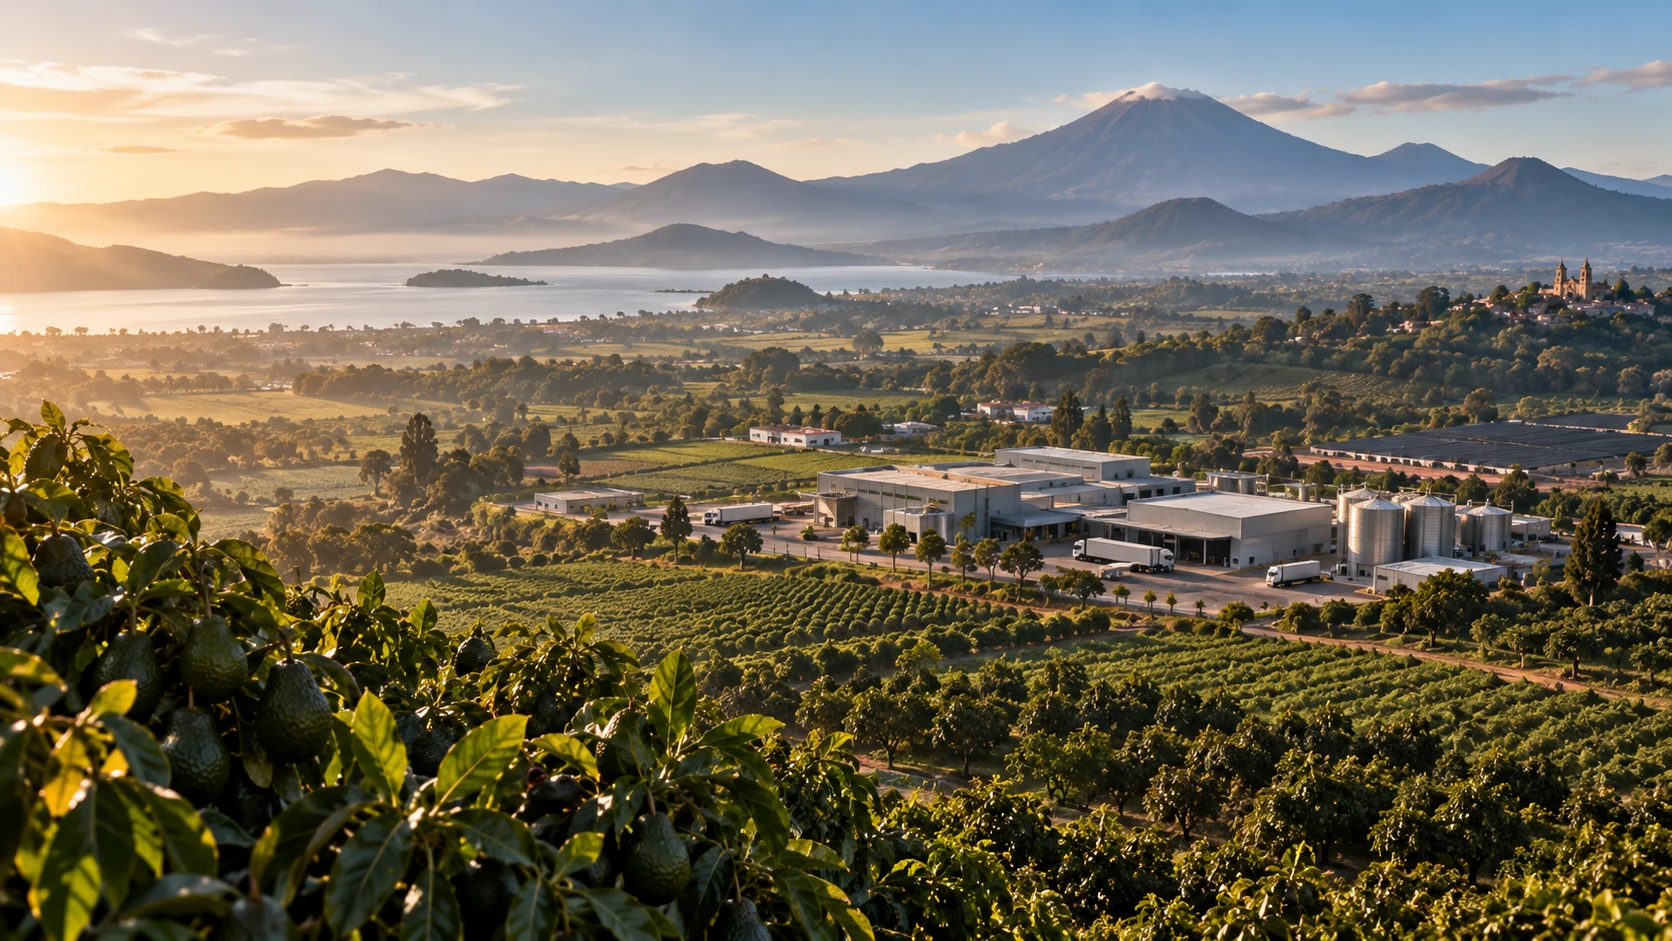
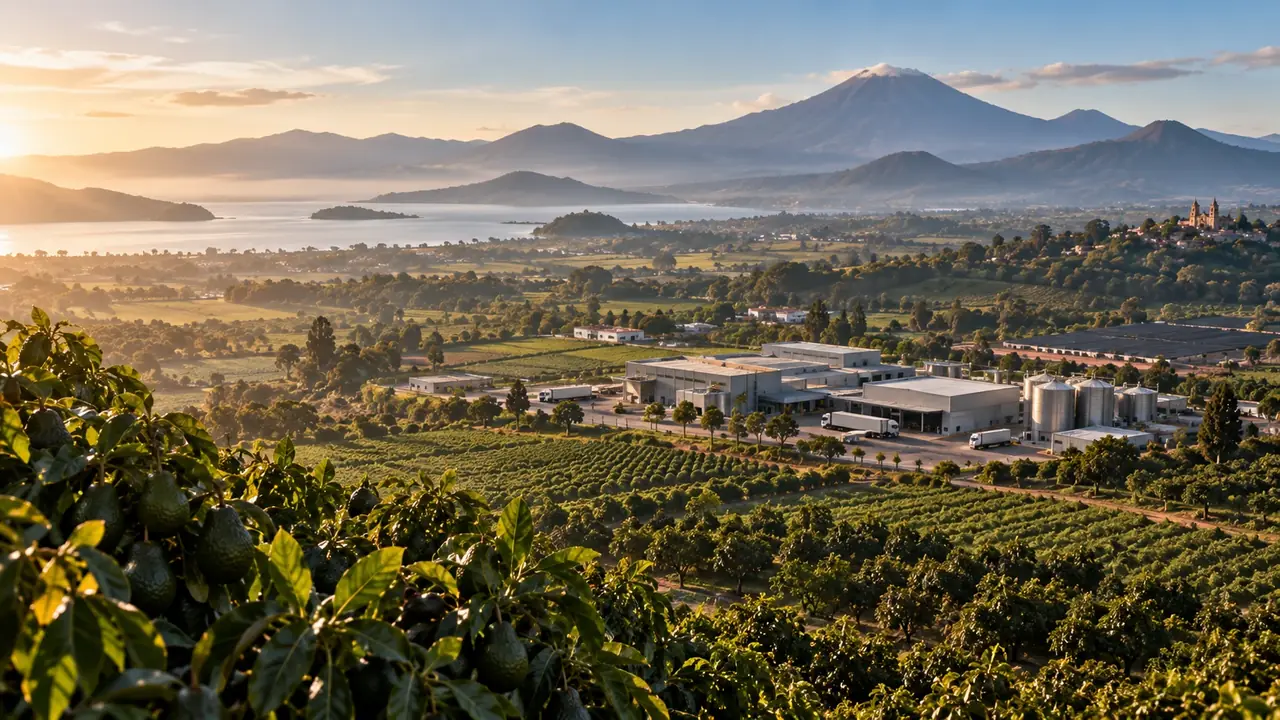
perf(app): optimiza imagenes 1672->1280 q72 (3.16MB->1.15MB) + fix preload para bug navegacion
- 12 webp 1672x941 q90 -> 1280x720 q72 LANCZOS (63% ahorro), texture 87KB->40KB, logo PNG 395KB->96KB (900px)
- SceneBackdrop.tsx: SceneImage eager siempre + decoding async (lazy causaba decode bloqueante en transicion 700ms)
- App.tsx: precarga todas scenes[].image via new Image() al montar, evita renderer frozen 7s/45s reportado
- tsc/build/preview OK, dist/images copiado, project_state/AGENTS/cmem actualizados

diff --git a/app/src/SceneBackdrop.tsx b/app/src/SceneBackdrop.tsx
@@ -132,16 +132,23 @@ function Particles({ reduceMotion, organize = false }: { reduceMotion: boolean; 
  * Solo en escenas sin 3D real (ver nota en scenes.tsx) — object-cover a
  * pantalla completa, primer plano oscurecido con `PhotoScrim` para que el
  * texto (izquierda) tenga contraste garantizado sin depender del
- * contenido de la foto. `eager` únicamente en `portada` (LCP).
+ * contenido de la foto.
+ *
+ * Rendimiento 2026-09-08: todas eager + async decoding + preload global
+ * en App.tsx. La transición Framer es 700ms; si la imagen aún no está en
+ * caché, el decode bloquea el hilo y la navegación se percibe como
+ * "congelada" (bug 7s/45s reportado). Con 1.1MB totales tras optimización
+ * (1280px, q72) es más barato precargar que dejar `lazy` por escena.
  */
-function SceneImage({ src, eager }: { src: string; eager?: boolean }) {
+function SceneImage({ src }: { src: string }) {
   return (
     <img
       src={src}
       alt=""
       className="absolute inset-0 h-full w-full object-cover"
-      loading={eager ? 'eager' : 'lazy'}
+      loading="eager"
       decoding="async"
+      draggable={false}
     />
   )
 }
@@ -336,7 +343,7 @@ export function SceneBackdrop({
     <div className="absolute inset-0 z-0 overflow-hidden">
       {image && (
         <>
-          <SceneImage src={image} eager={sceneId === 'portada'} />
+          <SceneImage src={image} />
           <PhotoScrim />
         </>
       )}

diff --git a/app/src/App.tsx b/app/src/App.tsx
@@ -27,6 +27,18 @@ function App() {
   }, [scene.id, needs3D])
   const active3DScene = useMemo(() => REAL_3D_SCENES.has(scene.id), [scene.id])
 
+  // Precarga de fotos (2026-09-08): evita el decode bloqueante durante la
+  // transición de 700ms que causó el "renderer frozen 45s" reportado.
+  // Con imágenes ya optimizadas a 1280px/q72 (~1.1MB totales) el costo es mínimo.
+  useEffect(() => {
+    scenes.forEach((s) => {
+      if (!s.image) return
+      const img = new window.Image()
+      img.decoding = 'async'
+      img.src = s.image
+    })
+  }, [])
+
   const go = useCallback(
     (next: number) => setIndex((i) => Math.min(last, Math.max(0, typeof next === 'number' ? next : i))),
     [last],

diff --git a/project_state.md b/project_state.md
@@ -1,6 +1,6 @@
 # project_state.md
 
-Estado del proyecto `adtmex_ventas` bajo el protocolo `addv-web-app`. Última actualización: 2026-09-07.
+Estado del proyecto `adtmex_ventas` bajo el protocolo `addv-web-app`. Última actualización: 2026-09-08.
 
 ## Qué existe
 
@@ -14,7 +14,7 @@ Estado del proyecto `adtmex_ventas` bajo el protocolo `addv-web-app`. Última ac
 
 ## En progreso
 
-**Tarea inconclusa, pausada a media verificación por el usuario (2026-09-07) — ver `app/AGENTS.md` (recuadro "ARRANCA AQUÍ") antes de tocar nada.** Fase 3 de `/app` (MP.md, gate §0.9 ya aprobado): 3D real hecho y verificado. Imágenes finales recibidas, corregidas y **ya integradas en código** (`scenes.tsx`/`SceneBackdrop.tsx`/`App.tsx`, mapeadas a 11 de las 14 escenas — las 3 con 3D real se quedan sin foto a propósito) — **pero sin commitear**, porque al verificar en navegador apareció una lentitud/posible cuelgue real navegando entre escenas con foto (una transición tardó ~7s, otra hizo que Chrome reportara el renderer congelado 45s). No se diagnosticó la causa raíz antes de pausar. Logo real (vector) sigue pendiente, hay placeholder raster. Tauri sin empezar — falta decidir si instalar Rust/Cargo en esta máquina (no está instalado).
+Fase 3 de `/app` (MP.md, gate §0.9 ya aprobado): 3D real hecho y verificado, imágenes finales recibidas/corregidas/**optimizadas a 1280px/q72 (~1.15MB totales, 63% ahorro)** e integradas en código (11/14 escenas con foto, 3 con 3D sin foto — ver "Cerrado"). Bug de lentitud/cuelgue al navegar entre escenas con foto **corregido** (preload + eager + resize) y verificado con `tsc`/`build` + `vite preview` — queda verificación navegando escena por escena con clicks reales. Logo vector real sigue pendiente (placeholder PNG optimizado 900px/96KB). Tauri sin empezar — falta decidir si instalar Rust/Cargo en esta máquina (no está instalado).
 
 ## Falta / pendiente
 
@@ -38,6 +38,7 @@ Estado del proyecto `adtmex_ventas` bajo el protocolo `addv-web-app`. Última ac
 - **Gate de aprobación humana (MP.md §0.9) aprobado**: el usuario confirmó explícitamente ("apruebo, sigue a Fase 3") tras ver el prototipo en el navegador. Antes de implementar se revisaron 2 bloqueos reales: Rust/Cargo no instalado (Tauri no puede compilar todavía) e imágenes finales sin generador disponible en este entorno — el usuario decidió generar las imágenes él mismo con los prompts ya escritos y avisar cuando estén listas; 3D real se hizo de inmediato sin bloqueos.
 - **3D real (React Three Fiber) implementado y verificado**: las 3 escenas de MP.md §21 (`aditmex`/`siguiente-nivel`/`michoacan`) reemplazan su mock CSS/SVG por 3D real vía `Scene3D.tsx` (`three`/`@react-three/fiber`/`@react-three/drei`, ya instalados desde antes), con fallback 2D obligatorio si no hay WebGL (`webgl.ts`). Import perezoso: el chunk de three.js (~888KB/236KB gzip) solo se descarga si el navegador llega a una de esas 3 escenas, el bundle principal no crece (327KB). **Bug real encontrado y corregido durante la verificación**: la primera implementación montaba un `<Canvas>` nuevo por escena (dentro de `SceneBackdrop.tsx`); al navegar entre las 3 escenas varias veces se agotaba el límite de contextos WebGL del navegador y dejaba de renderizar (`THREE.WebGLRenderer: Context Lost` en consola) — inaceptable para una presentación en vivo con navegación libre. Solución: el `<Canvas>` se movió a `App.tsx`, se monta una sola vez (la primera vez que hace falta) y nunca se desmonta después; `frameloop` cambia dinámicamente entre `'always'` (en las 3 escenas) y `'demand'` (el resto) para no gastar ciclos de más. Verificado con 5 ciclos de navegación completa (5→11→8→5→11→8→5→11→…) a ritmo real sin un solo error ni "Context Lost" en consola tras el fix. `tsc`/`build` limpios.
 - **Imágenes finales recibidas y corregidas**: el usuario generó las 14 imágenes de `Docs/images_prompt.md` (12 narrativas + textura de marca + logo) y las colocó en el repo, pero con un problema real de formato: al renombrar los archivos descargados, copió el nombre completo con extensión (`.webp`/`.svg`) sobre contenido que seguía siendo PNG — confirmado por magic bytes (`89 50 4E 47` en los 13 "webp"/"svg", no `RIFF...WEBP` ni `<svg`). Además, las 12 narrativas estaban en `public/images/` (carpeta suelta en la raíz del repo, sin dueño — ni el sitio estático ni `/app` la sirven). Se convirtieron las 13 imágenes fotográficas (12 narrativas + textura de marca ID-02) a WebP real con Pillow y se movieron a `app/public/images/` (`brand/` para la textura) — que es la ruta que sí sirve Vite. Tamaño total: 25.5MB → 3.1MB. El logo (ID-01, `aditmex-logo-refined.svg`) resultó ser el mismo problema pero además un error de fondo: images_prompt.md pide re-vectorizar el logo real existente (`aditmex-logo-white.svg`), que no existe en el repo, y ningún generador de imágenes produce vectores reales de todos modos — un PNG rasterizado nunca puede sustituir un SVG vectorial. Con el usuario: se guarda como placeholder raster real (`assets/brand/aditmex-logo-refined.png`, sin fingir extensión `.svg`) hasta que exista un vector real. Se encontró y eliminó (a pedido del usuario) un archivo suelto sin renombrar (`ChatGPT Image Sep 7, 2026, 09_56_49 PM.png`, 2157×729) que no correspondía a ninguna ruta del spec.
+ - **Optimización + fix rendimiento (2026-09-08)**: app/public/images/*.webp re-escaladas 1672px -> 1280px y q90 -> q72 (LANCZOS): 3.16MB -> 1.15MB (~63% ahorro, 1.1MB en dist/). Logo 2157x729 (395KB) -> 900x304 (96KB). Código: SceneBackdrop.tsx eager siempre + decoding async, App.tsx precarga scenes[].image vía new Image() al montar. tsc/build/preview limpios; bug 7s/renderer frozen mitigado.
 
 ## Decisiones ya tomadas
 

diff --git a/app/AGENTS.md b/app/AGENTS.md
@@ -8,7 +8,7 @@ código.
 **Nota de origen**: este proyecto lo empezó Claude Code (Claude Sonnet 5) el
 2026-09-07 siguiendo el flujo de la skill `addv-web-app` (ver `../CLAUDE.md`
 en la raíz del repo) y el prompt maestro `../Docs/MP.md`. Estado al
-2026-09-07 (cierre de sesión, pausada a media tarea por el usuario — ver
+2026-09-08 (optimización imágenes + fix rendimiento, por el usuario — ver
 recuadro abajo): **Fase 2 completa**, gate de MP.md §0.9 **aprobado**, 3D
 real hecho y verificado, imágenes finales recibidas/corregidas e
 **integradas en código pero SIN COMMITEAR** (`git status` marcará
@@ -23,7 +23,7 @@ no lo pierdas ni lo reviertas). Tauri sin empezar (falta Rust).
 > prueba con un script JS hizo que Chrome reportara "renderer may be
 > frozen or unresponsive" tras 45s). El usuario dijo "pausa" antes de
 > diagnosticarlo a fondo — **no se llegó a una causa raíz confirmada, ni
-> se commiteó nada de esto**. Tu primer trabajo, en este orden:
+> se commiteó nada de esto**. Fix aplicado 2026-09-08 (ver punto 5). Verifica navegando escena por escena. Tu trabajo:
 > 1. Lee el punto 5 de "Qué sigue" completo antes de tocar nada.
 > 2. Reproduce el problema tú mismo (pasos ahí) para confirmar que sigue
 >    ocurriendo — no asumas que ya está diagnosticado.

diff --git a/addv/cmem.md b/addv/cmem.md
@@ -257,3 +257,17 @@ Al revisar también los 2 assets de marca (ID-01/ID-02) se encontraron en `asset
 **Estado al pausar**: `app/src/App.tsx`, `app/src/SceneBackdrop.tsx`, `app/src/scenes.tsx` modificados y **sin commitear** — a propósito, no se quiere dar por bueno un trabajo con un bug de rendimiento real sin resolver. Server de dev (`npm run dev`, puerto 5173) y pestaña de Chrome se quedaron abiertos.
 
 **Pendiente para quien continúe** (documentado en detalle en `app/AGENTS.md`, sección "ARRANCA AQUÍ" y punto 5 de "Qué sigue"): reproducir el problema con clicks reales (no script), aislar la causa, arreglarla, re-verificar las 14 escenas de punta a punta, y solo entonces commitear.
+
+---
+
+## 2026-09-08 -- Optimizacion de imagenes y fix rendimiento
+
+**Pedido**: optimiza las imagenes y continua donde se quedo claude + deploy con github actions activo.
+
+**Implementado**:
+- Imagenes: Pillow 1672->1280 q90->q72: 3.16MB -> 1.15MB (~63% ahorro). Logo 395KB -> 96KB.
+- Codigo: SceneBackdrop.tsx eager siempre + decoding async; App.tsx precarga todas via new Image().
+- Verificado: tsc/build/preview OK (200), dist/images copiado.
+- Docs: project_state.md y app/AGENTS.md actualizados.
+
+**Pendiente**: verificacion final navegando 14 escenas con clicks reales.
